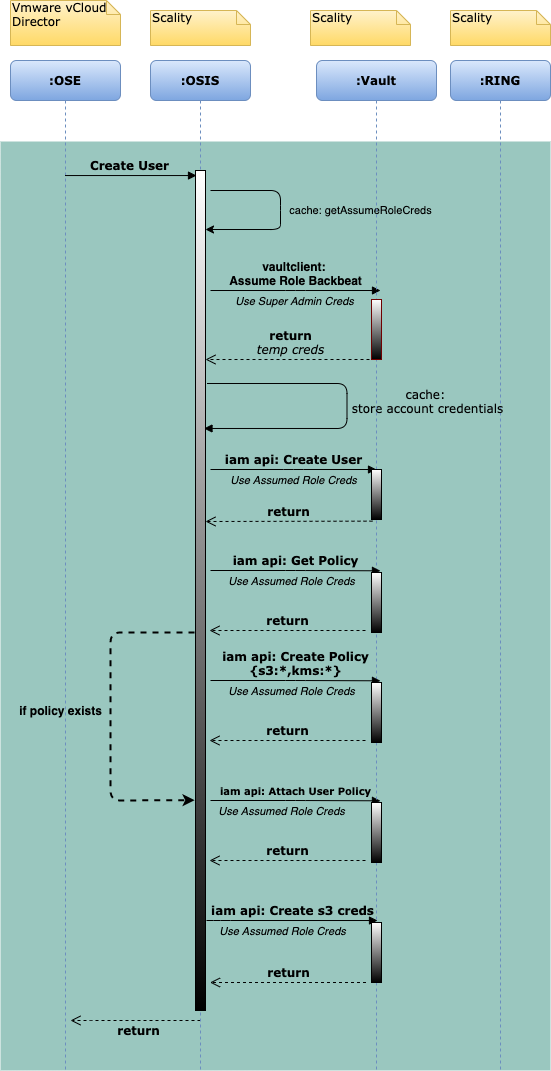
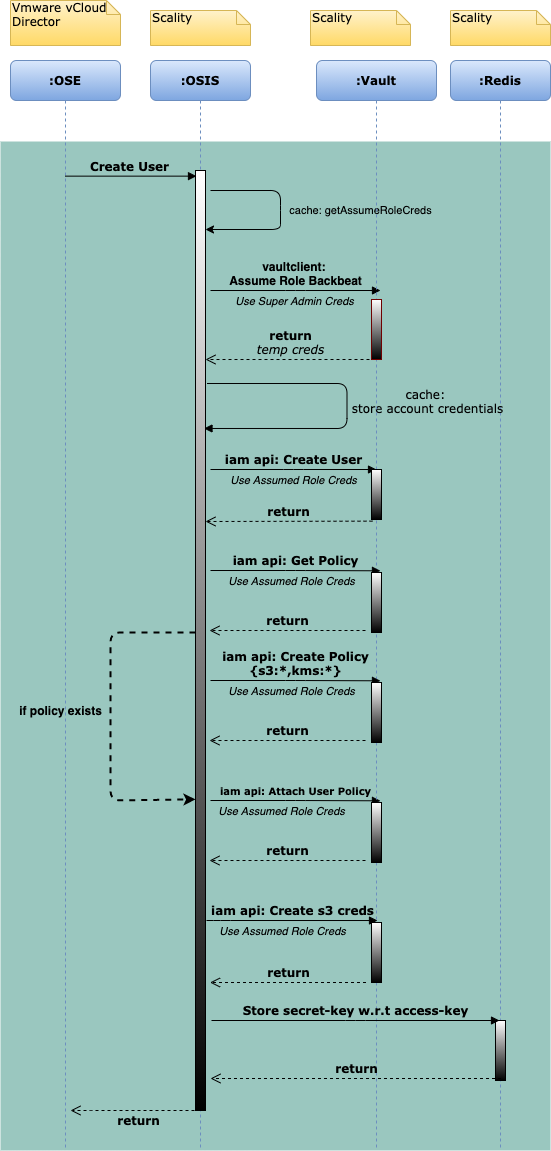
documentation:S3C-4390 listS3Credentials should return secret keys
Description:
1. Modified the 'Create S3 Credential' flow to store `secret-key`
2. Modified the 'Create User' flow to store `secret-key`
3. Modified the 'List S3 Credentials' flow to return `secret-keys`

diff --git a/Design.md b/Design.md
@@ -181,7 +181,9 @@ This API creates a user on Vault.
 1. The `get-policy` API will be called with the `userPolicy@[account-id]` policy name using assumed role credentials
 1. If the `get-policy` API does not return any policy, using the assumed role credentials creates an IAM managed policy with the `userPolicy@[account-id]` policy name with full S3 access.
 1. `attach-policy` for the new user will be called using the assumed role credentials and the policy arn formatted as `arn:aws:iam::[account-id]:policy/userPolicy@[account-id]`.
-1. `create-s3credentials` api will be called using assumed role credentials
+1. The IAM `generate-access-key` API will be called using assumed role credentials.
+1. Encrypt the secret key using the AES algorithm. Store the encrypted secret key on Redis Cache in the hash named "OSIS", with the hash key formatted as `<Username>__<AccessKeyID>`. 
+1. Log the access key ID _(Log location and tools for logging are yet to be decided)_
 
 ### Create User Example Activity Diagram
 ![Create User](Design_Files/OSE-OSIS-Create-User.png)
@@ -227,8 +229,22 @@ This API will enable or disable user on Vault.
 
 
 ### Create S3 Credential
-This API creates S3 credential for the user.
-1. `generate-access-key` api will be called using assumed role credentials.
+This API creates S3 credentials for the user.
+1.  The Generate Access Key API will be called using assumed role credentials.
+1. Encrypt the secret key using the AES algorithm. Store the encrypted secret key on Redis Cache in the hash named "OSIS", with the hash key formatted as `<Username>__<AccessKeyID>`.
+1. Log the access key ID _(Log location and tools for logging are yet to be decided)_
+
+**Important Notes:**
+* Redis cache is subject to an ongoing rolling deployment.
+* If Redis Sentinel fails or crashes, the vCloud Director's OSE service must be restarted with the following command:_
+    ```shell
+    $ ose service restart
+    ```
+  * All access keys created by OSIS before OSE restart time (`ose-restart-time`) are dead keys on the Vault DB, which OSE/OSIS cannot use and must be manually deleted from the Vault. 
+  * A log location for all the dead access key IDs created by OSIS, and a script to run manually, to delete these dead keys from Vault DB, will be provided.
+
+### Create S3 Credential Example Activity Diagram
+![Create S3 Credential](Design_Files/OSE-OSIS-Create-S3-Credential.png)
 
 ### Query S3 Credentials
 This API query S3 credentials of the  user using a `filter` parameter.
@@ -238,6 +254,12 @@ This API query S3 credentials of the  user using a `filter` parameter.
 ### List S3 Credentials
 This API list S3 credentials of the  user.
 1. `list-access-keys` api will be called using assumed role credentials.
+2. Retrieve the secret keys, formatted as `<Username>__<AccessKeyID>`, from Redis cache.
+3. Decrypt the secret keys using AES and add them to the response.
+4. Exclude the keys in the response that are not present in the Redis cache.
+
+### List S3 Credentials Example Activity Diagram
+![List S3 Credentials](Design_Files/OSE-OSIS-List-S3-Credentials.png)
 
 ### Delete S3 Credential
 This API deletes the S3 credential of the user.
